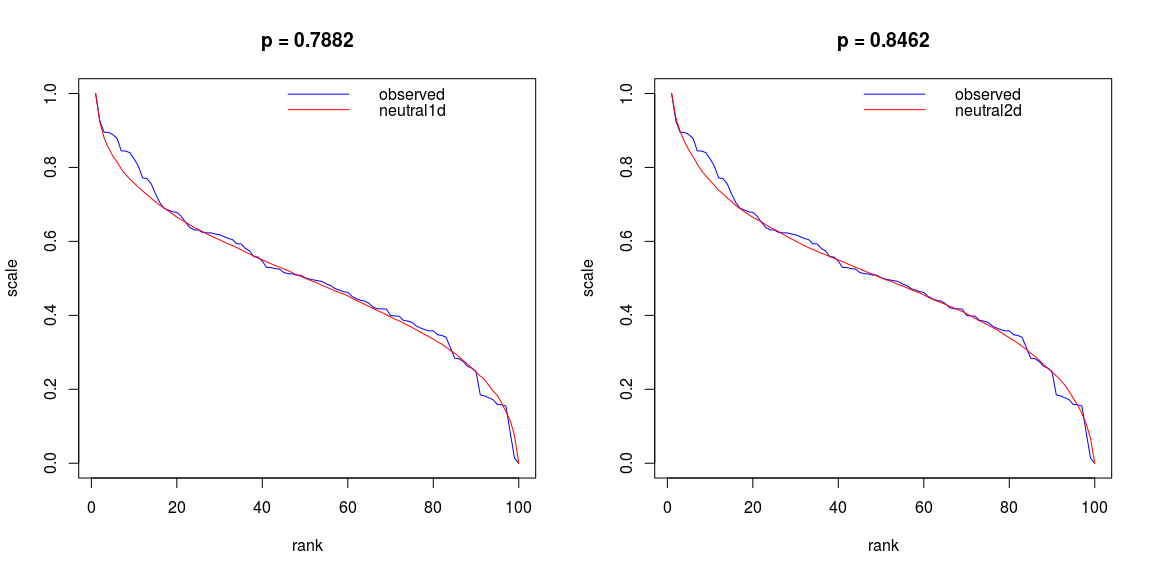
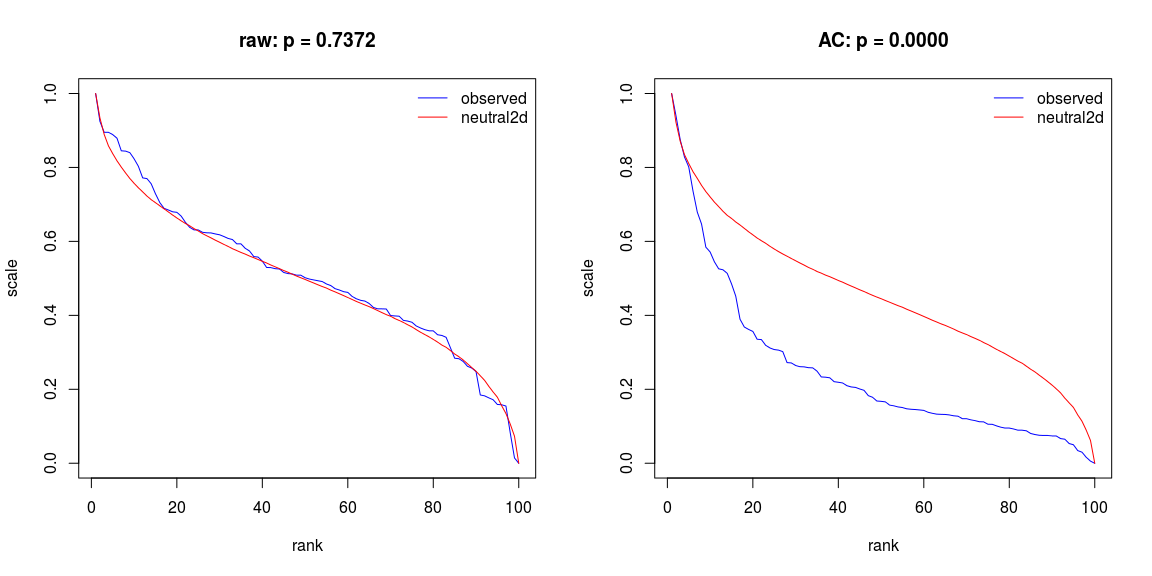
implement spatial autocorrelation tests

diff --git a/README.md b/README.md
@@ -16,25 +16,40 @@ First a demonstration with a seed that produces a 2D field very similar to neutr
 
 ``` r
 seed <- 18
-ydat <- ives2D (size=10, seed=seed)
-x11 ()
-par (mfrow=c(1,2))
-test <- test1d (ydat, plot=TRUE)
-test <- test2d (ydat, plot=TRUE)
+ymat <- ives2D (size=10, seed=seed)
+test <- test2d (ymat, plot=TRUE)
 ```
 
 ![](fig/fig1.png)
 
+Even though the raw data are similarly distributed, the spatial autocorrelation statistics are not.
+
 Then the text output of `run_tests` for a random seed giving more typically low p-values
 
 ``` r
-run_tests (ntests=1000)
+run_tests (size=10, ntests=1000)
 ```
 
-    ##   dim    |   alpha   diff    p(T)    |   alpha       n   |
-    ## --------|-------------------------------|-------------------------------|
-    ##   1  |   (0.1, 0.1)  2.29    0.0000  |   (0.09, 0.14)    13  |
-    ##   1  |   (0.1, 0)    2.29    0.0000  |   (0.10, 0.01)    8   |
-    ##   2  |   (0.1, 0.1)  2.27    0.0000  |   (0.11, 0.10)    13  |
-    ##   2  |   (0.1, 0)    2.31    0.0000  |   (0.09, 0.03)    13  |
-    ## -------------------------------------------------------------------------
+    ##        |             differences     p-values        |                       |
+    ##   dim  |  alpha      raw     AC      raw     AC      |   alpha       n       |
+    ## -------|---------------------------------------------|-----------------------|
+    ##   1    | (0.1, 0.1)  0.00    10.63   0.0000  0.0000  |   (0.11, 0.12)    4   |
+    ##   1    | (0.1, 0)    0.00    9.84    0.0000  0.0000  |   (0.08, 0.06)    9   |
+    ##   2    | (0.1, 0.1)  0.00    9.31    0.0000  0.0000  |   (0.12, 0.12)    17  |
+    ##   2    | (0.1, 0)    0.00    10.68   0.0000  0.0000  |   (0.11, 0.02)    5   |
+    ## ------------------------------------------------------------------------------
+
+`run_tests` can also be used to test a neutral field against a statistial ensemble of neutral fields:
+
+``` r
+run_tests (size=10, ntests=1000, neutral=TRUE)
+```
+
+    ##        |             differences     p-values        |                       |
+    ##   dim  |  alpha      raw     AC      raw     AC      |   alpha           n   |
+    ## -------|---------------------------------------------|-----------------------|
+    ##   1    | (0.1, 0.1)  0.00    0.55    0.0019  0.0111  |   (0.09, 0.20)    10  |
+    ##   1    | (0.1, 0)    0.00    0.71    0.0030  0.0035  |   (0.12, 0.02)    9   |
+    ##   2    | (0.1, 0.1)  0.00    0.20    0.0032  0.1281  |   (0.10, 0.13)    4   |
+    ##   2    | (0.1, 0)    0.00    0.83    0.0025  0.0015  |   (0.12, 0.05)    10  |
+    ## ------------------------------------------------------------------------------
